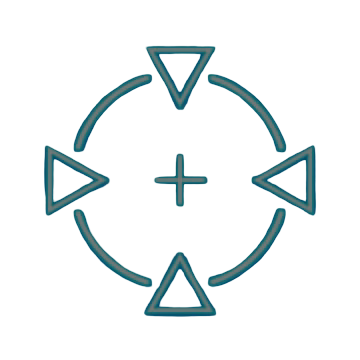
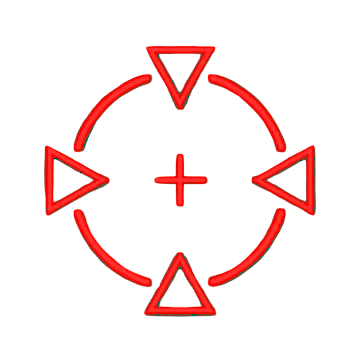
Переписал TurretWidget на QML + ImageProvider
- Заменил .ui + paintEvent на QQuickWidget + QML
- ImageProvider: проброс QImage из камеры в QML через image://turret/feed
- QML: камера + прицел, обновление через Timer
- Починил запуск камеры: start() в camera thread
- Починил завершение: stop() через BlockingQueuedConnection
- CMake: добавлен Qt6::QuickWidgets, убран turretwidget.ui
- Удалён src/turretwidget.ui

Changed region(s): [[0.1222, 0.1222, 0.8861, 0.8861], [0.4278, 0.4278, 0.5806, 0.5806]]

diff --git a/qml/turretwidget.qml b/qml/turretwidget.qml
@@ -1,0 +1,27 @@
+import QtQuick
+
+Item {
+    Image {
+        id: cameraImage
+        anchors.fill: parent
+        source: "image://turret/feed"
+        fillMode: Image.PreserveAspectFit
+    }
+
+    Image {
+        source: "qrc:/images/crosshair.png"
+        anchors.centerIn: parent
+        width: 60
+        height: 60
+        sourceSize.width: 60
+        sourceSize.height: 60
+        fillMode: Image.PreserveAspectFit
+    }
+
+    Timer {
+        interval: 33
+        running: true
+        repeat: true
+        onTriggered: cameraImage.source = "image://turret/feed?" + Date.now()
+    }
+}

diff --git a/src/turretwidget.cpp b/src/turretwidget.cpp
@@ -1,39 +1,59 @@
 #include "turretwidget.h"
-#include "ui_turretwidget.h"
+#include <QQuickWidget>
+#include <QQmlEngine>
+#include <QQmlContext>
+#include <QVBoxLayout>
+#include <QUrl>
+
+ImageProvider::ImageProvider()
+    : QQuickImageProvider(QQuickImageProvider::Image)
+{
+}
+
+void ImageProvider::setFrame(const QImage &frame)
+{
+    QMutexLocker lock(&m_mutex);
+    m_frame = frame;
+    m_counter++;
+    emit counterChanged();
+}
+
+QImage ImageProvider::requestImage(const QString &, QSize *size, const QSize &)
+{
+    QMutexLocker lock(&m_mutex);
+    if (m_frame.isNull()) {
+        if (size)
+            *size = QSize(1, 1);
+        return QImage(1, 1, QImage::Format_ARGB32);
+    }
+    if (size)
+        *size = m_frame.size();
+    return m_frame;
+}
 
 TurretWidget::TurretWidget(QWidget *parent)
     : QWidget(parent)
-    , ui(new Ui::turretWidget)
 {
-    ui->setupUi(this);
-    ui->crosshair->setAttribute(Qt::WA_TransparentForMouseEvents);
+    m_imageProvider = new ImageProvider();
+
+    auto *quickWidget = new QQuickWidget(this);
+    quickWidget->setResizeMode(QQuickWidget::SizeRootObjectToView);
+    quickWidget->engine()->addImageProvider("turret", m_imageProvider);
+    quickWidget->engine()->rootContext()->setContextProperty("imageProvider", m_imageProvider);
+
+    quickWidget->setSource(QUrl("qrc:/qml/turretwidget.qml"));
+
+    auto *layout = new QVBoxLayout(this);
+    layout->setContentsMargins(0, 0, 0, 0);
+    layout->addWidget(quickWidget);
 }
 
 TurretWidget::~TurretWidget()
 {
-    delete ui;
+    delete m_imageProvider;
 }
 
 void TurretWidget::setFrame(const QImage &frame)
 {
-    m_frame = frame;
-    update();
-}
-
-void TurretWidget::paintEvent(QPaintEvent *)
-{
-    QPainter p(this);
-    p.setRenderHint(QPainter::SmoothPixmapTransform);
-
-    if (m_frame.isNull()) {
-        p.fillRect(rect(), Qt::black);
-        return;
-    }
-
-    auto scaled = m_frame.scaled(
-        size(), Qt::KeepAspectRatio, Qt::SmoothTransformation);
-
-    int x = (width() - scaled.width()) / 2;
-    int y = (height() - scaled.height()) / 2;
-    p.drawImage(x, y, scaled);
+    m_imageProvider->setFrame(frame);
 }

diff --git a/src/turretwidget.h b/src/turretwidget.h
@@ -3,9 +3,30 @@
 
 #include <QWidget>
 #include <QImage>
-#include <QPainter>
+#include <QMutex>
+#include <QQuickImageProvider>
 
-namespace Ui { class turretWidget; }
+class ImageProvider : public QQuickImageProvider
+{
+    Q_OBJECT
+    Q_PROPERTY(int counter READ counter NOTIFY counterChanged)
+
+public:
+    ImageProvider();
+
+    void setFrame(const QImage &frame);
+    int counter() const { return m_counter; }
+
+    QImage requestImage(const QString &id, QSize *size, const QSize &requestedSize) override;
+
+signals:
+    void counterChanged();
+
+private:
+    QImage m_frame;
+    QMutex m_mutex;
+    int m_counter = 0;
+};
 
 class TurretWidget : public QWidget
 {
@@ -14,14 +35,11 @@ class TurretWidget : public QWidget
 public:
     explicit TurretWidget(QWidget *parent = nullptr);
     ~TurretWidget() override;
+
     void setFrame(const QImage &frame);
 
-protected:
-    void paintEvent(QPaintEvent *event) override;
-
 private:
-    QImage m_frame;
-    Ui::turretWidget *ui;
+    ImageProvider *m_imageProvider = nullptr;
 };
 
-#endif // TURRETWIDGET_H
+#endif

diff --git a/mainwindow.cpp b/mainwindow.cpp
@@ -16,7 +16,7 @@ MainWindow::MainWindow(QWidget *parent)
 
     connect(m_cameraGrabber, &CameraGrabber::frameCaptured,
             this, &MainWindow::onFrameCaptured);
-    connect(m_cameraThread, &QThread::started, this, [this]() {
+    connect(m_cameraThread, &QThread::started, m_cameraGrabber, [this]() {
         m_cameraGrabber->start();
     });
 
@@ -25,7 +25,7 @@ MainWindow::MainWindow(QWidget *parent)
 
 MainWindow::~MainWindow()
 {
-    m_cameraGrabber->stop();
+    QMetaObject::invokeMethod(m_cameraGrabber, "stop", Qt::BlockingQueuedConnection);
     m_cameraThread->quit();
     m_cameraThread->wait();
     delete m_cameraGrabber;